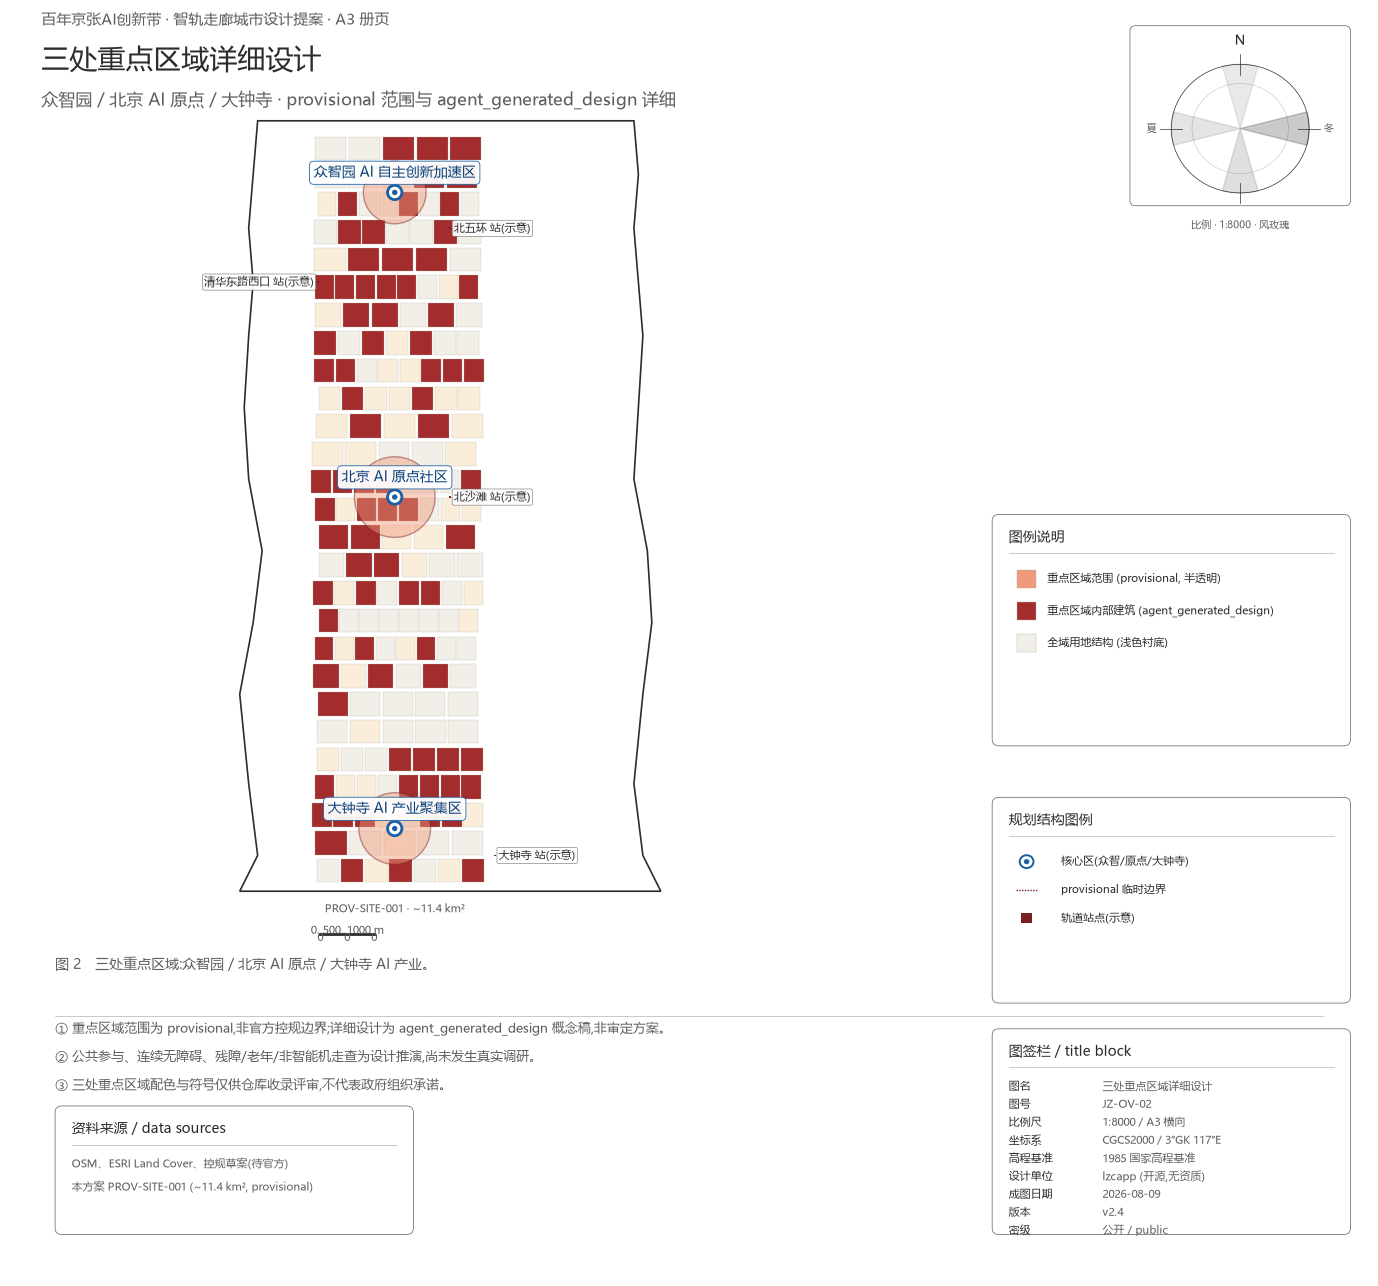
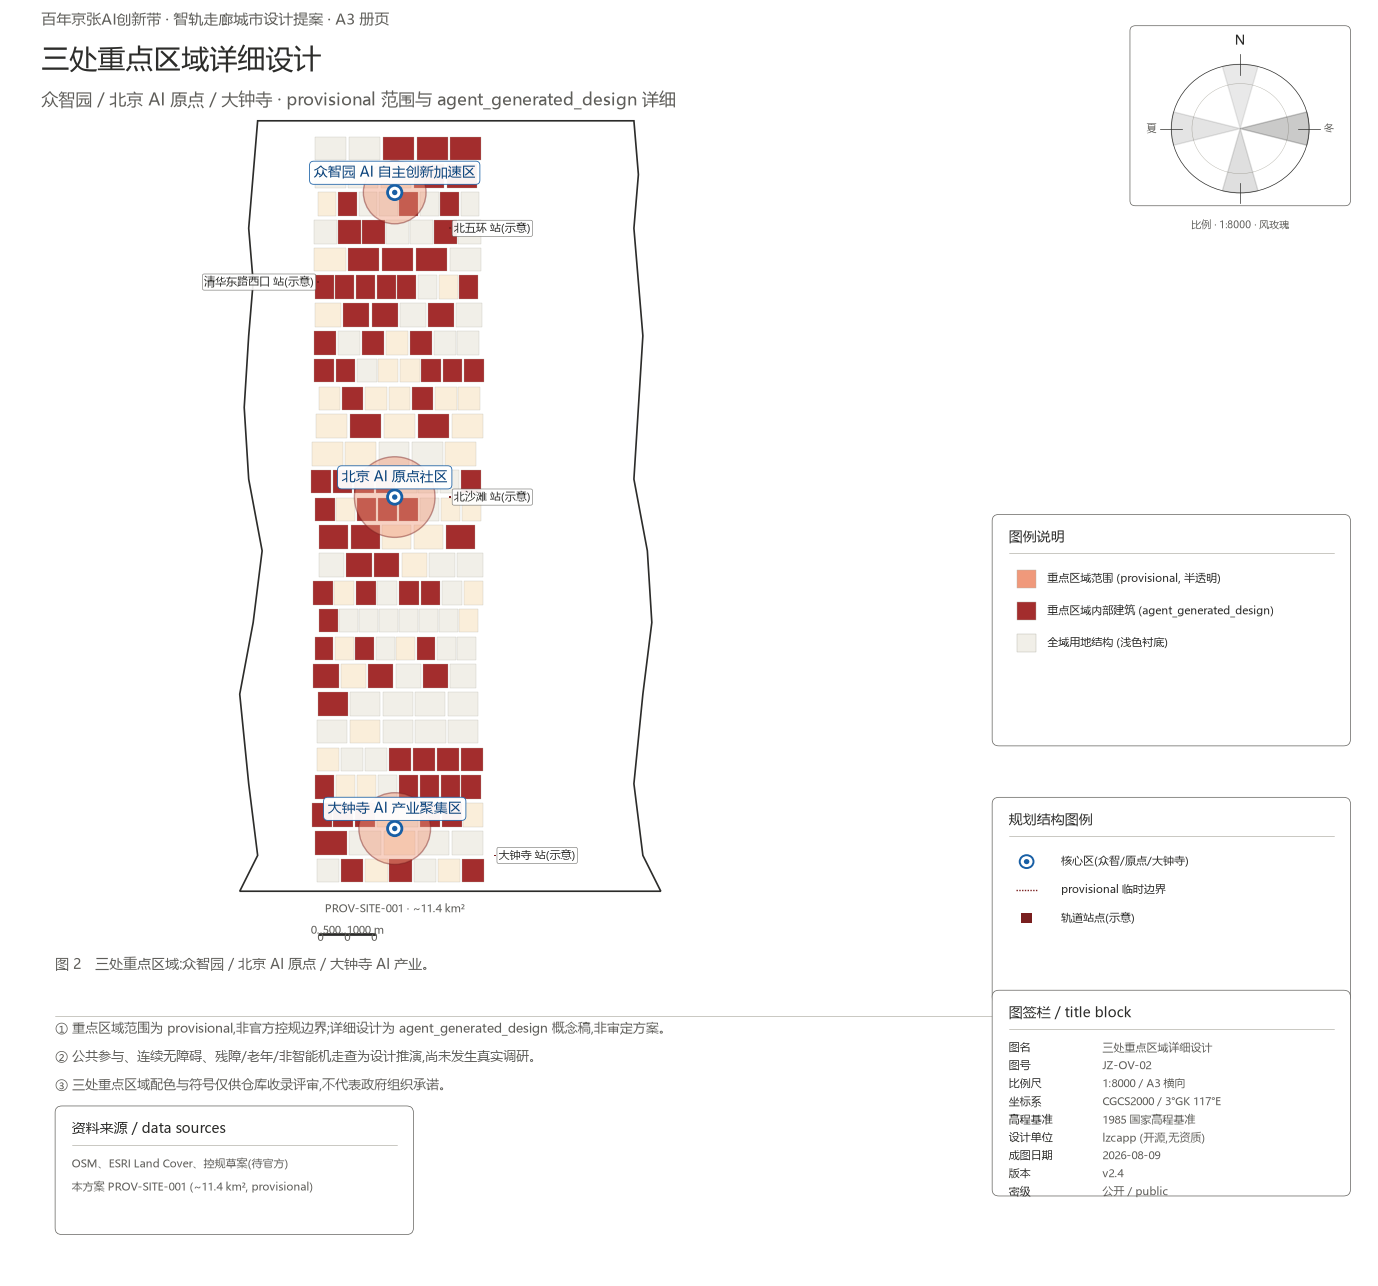
figs(jingzhang-ai-belt): enlarge title-block bottom padding (y0 0.04 -> 0.07)
- draw_title_block: move the block up from y0=0.04 to y0=0.07, adding ~36px
  bottom padding on 1286px figures (~2.8%) and ~30px on 876px metrics figure.
  Bottom whitespace in the title-block column measured:
    1286px figures: 52px -> 88px (6.8%)
    876px figure  : 36px -> 58px (6.6%)
- Side benefit: title-block top edge moves from 0.20 to 0.23, clearing the
  caveats 1st-line descenders (glyph bottom ~0.188-0.208) that were being
  clipped by the old top edge at 0.20 (the '算。' fragment visible above the
  block). Gap is now 0.022 (~28px) between caveats and title block.
- Regenerated all 5 PNGs (site-overview / key-areas / land-use-structure /
  mobility-bluegreen / metrics-evidence) with the new layout.
- Rebuilt manifest.json sha256; normalized to LF.
- Version stays v2.4 (within-spec refinement; title-block content unchanged).
No PR opened (per standing rule).

Changed region(s): [[0.7177, 0.7776, 0.9673, 0.9642]]

diff --git a/build_figures_v2.py b/build_figures_v2.py
@@ -108,7 +108,7 @@ def draw_three_tier_title(fig, fig_y_px, total_h_px, series, title, subtitle):
 
 def draw_title_block(fig, fig_id, fig_name, fig_idx):
     s = fig.add_axes([0, 0, 1, 1]); s.set_xlim(0, 1); s.set_ylim(0, 1); s.axis("off")
-    x0, y0, w, h = 0.72, 0.04, 0.26, 0.16
+    x0, y0, w, h = 0.72, 0.07, 0.26, 0.16
     box(s, x0, y0, w, h, r=0.005)
     text(s, x0 + 0.012, y0 + h - 0.018, "图签栏 / title block", size=10, weight="500")
     line(s, x0 + 0.012, y0 + h - 0.03, x0 + w - 0.012, y0 + h - 0.03)
